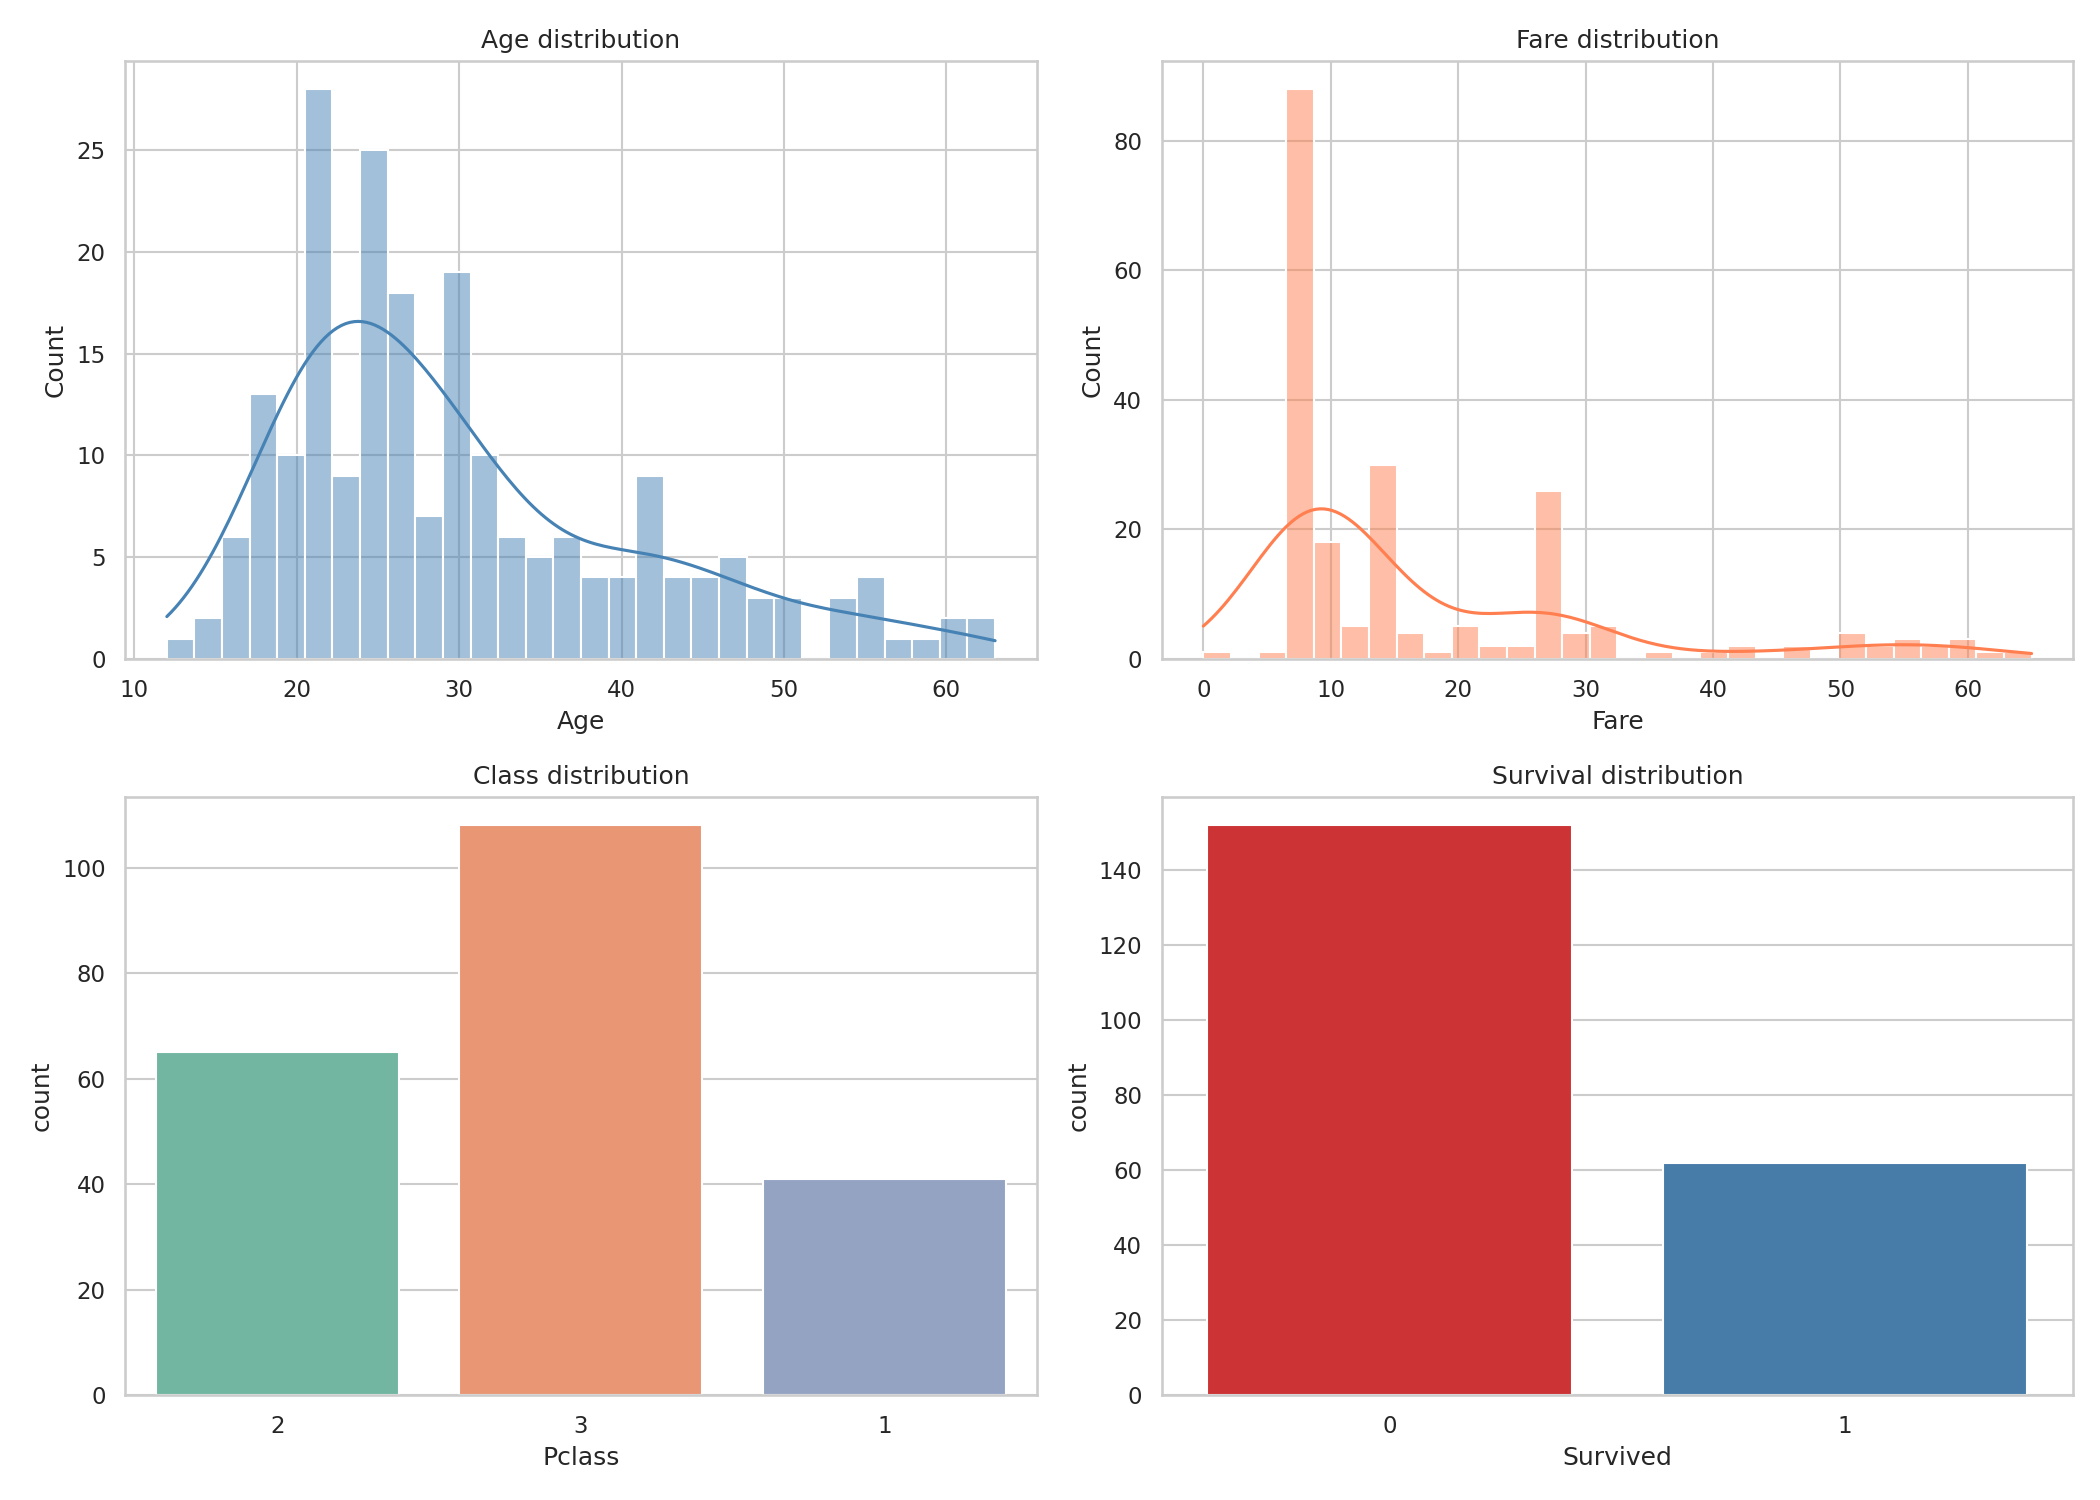
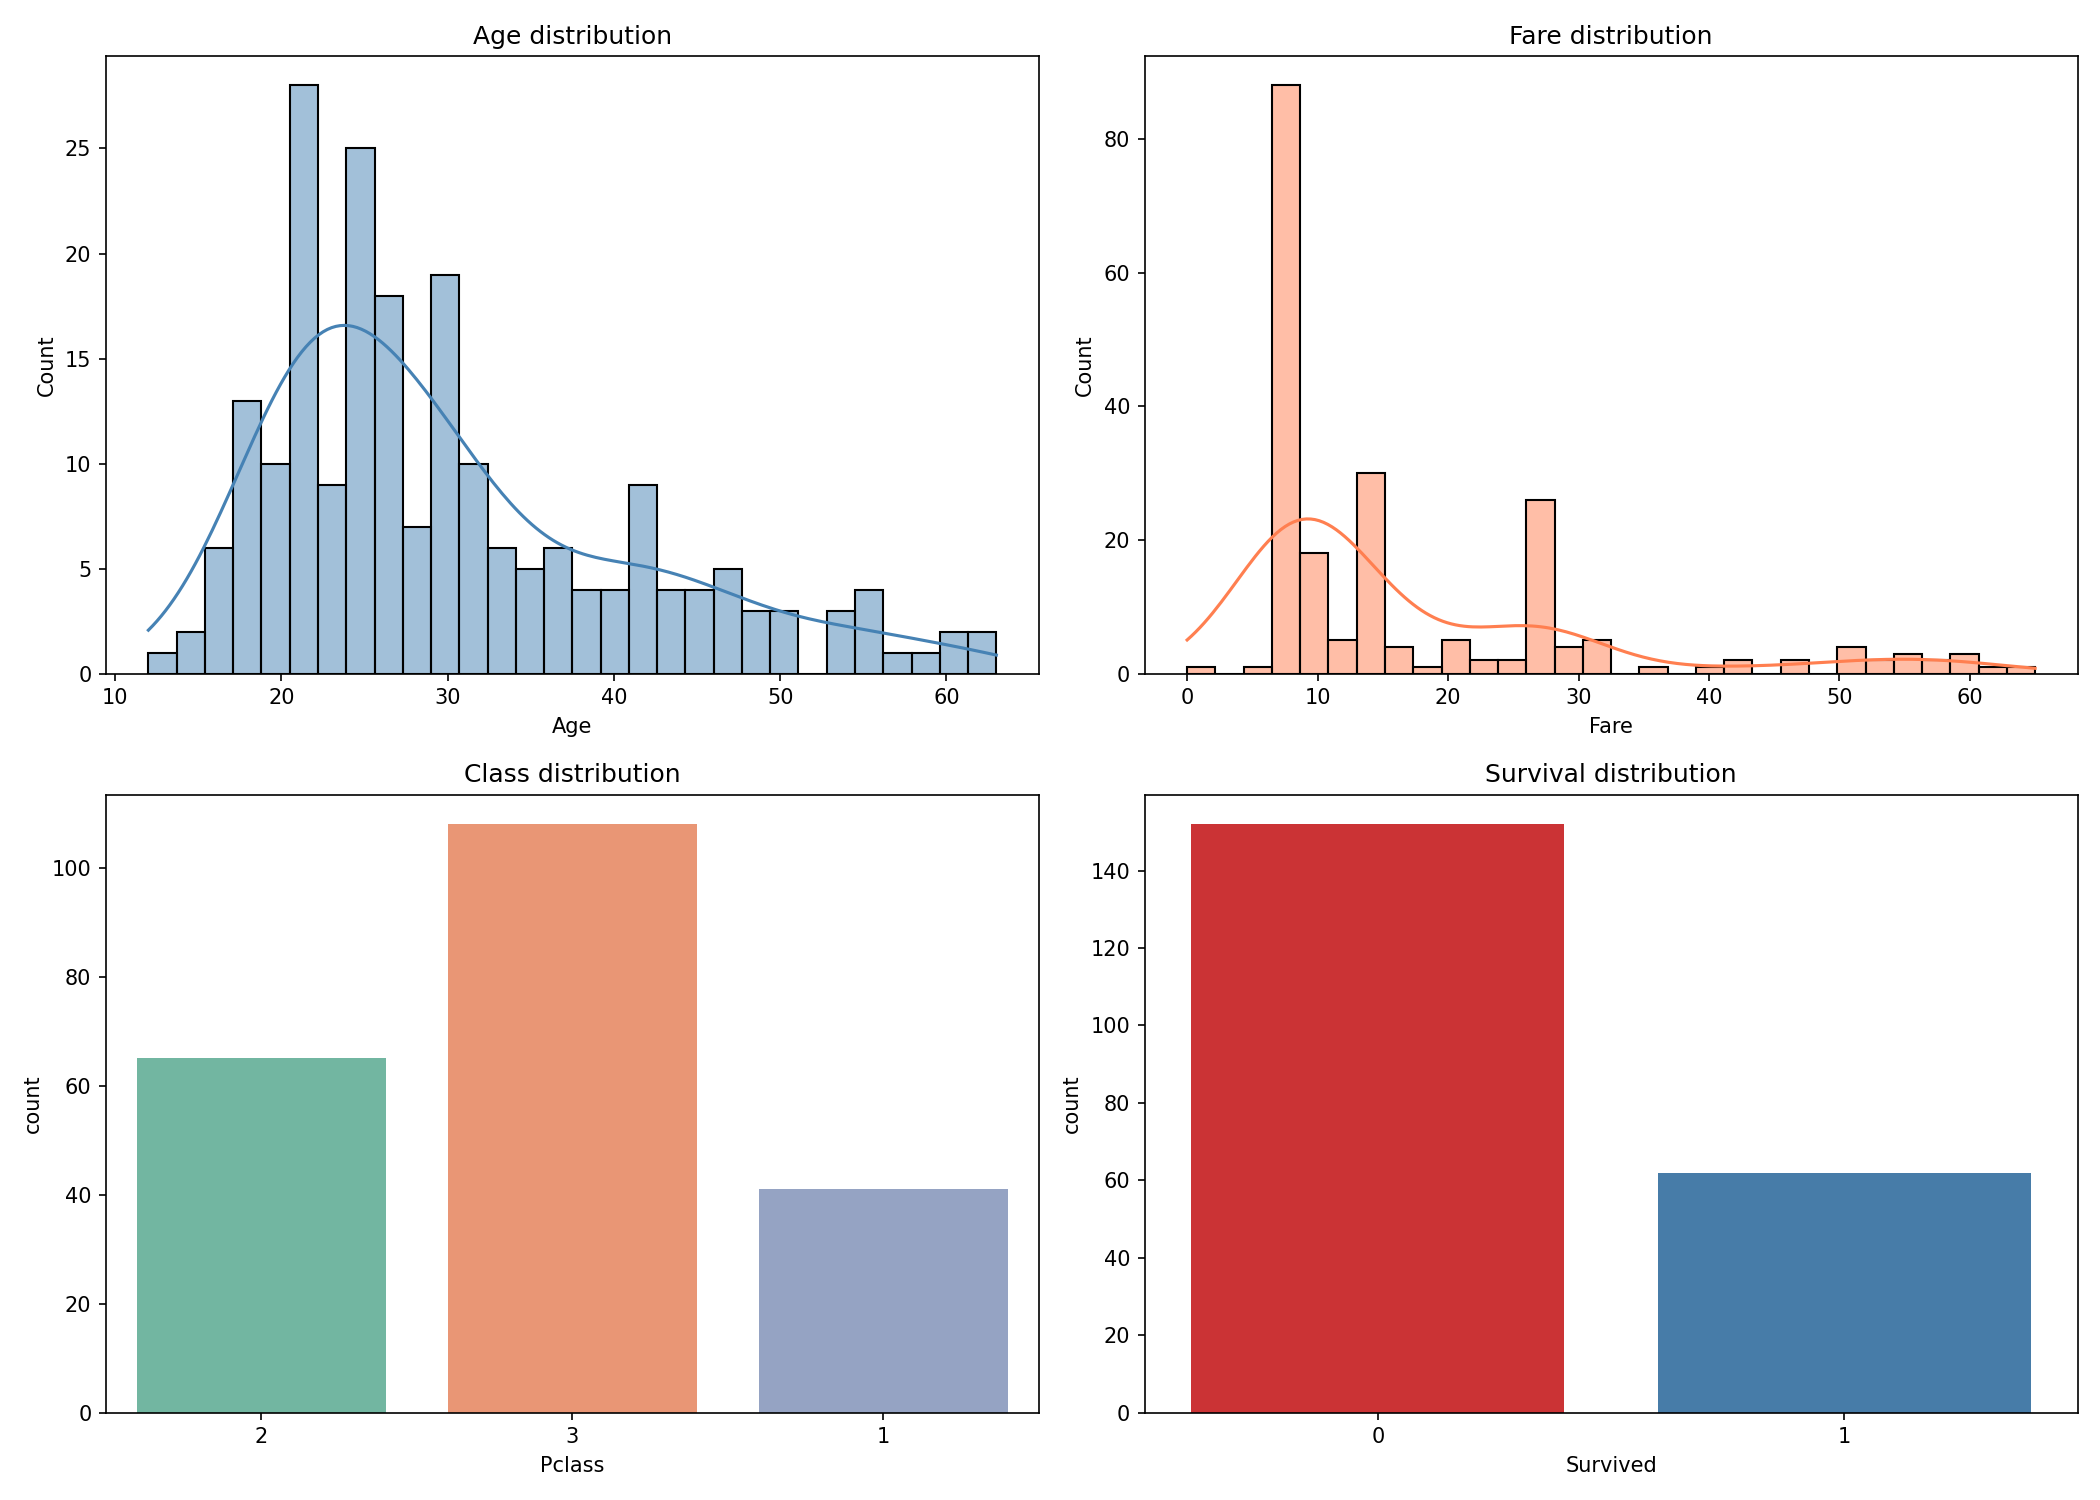
tp1 bis

diff --git a/DataScience/TP1/tp1_bis.py b/DataScience/TP1/tp1_bis.py
@@ -1,0 +1,226 @@
+import polars as pl
+import pandas as pd
+import matplotlib.pyplot as plt
+import seaborn as sns
+
+# Loading the dataset with polars
+df: pl.DataFrame = pl.read_csv("titanic.csv")
+
+# Show the 10 first rows
+print(df.head(10))
+
+# Print the stat of the dataframe
+print(df.describe())
+
+# Print the structure of the dataframe
+print(df.schema)
+
+# Count the missing values
+print(df.null_count())
+
+# Show the count of duplicates values
+print(f"Duplicates: {df.is_duplicated().sum()}")
+df = df.unique()
+
+# Type correction
+df = df.with_columns(
+    pl.col("Pclass").cast(pl.Utf8),
+    pl.col("Sex").cast(pl.Utf8),
+    pl.col("Embarked").cast(pl.Utf8),
+)
+
+# Outlier detection (IQR)
+# Define mumeric columns where I want to detect aberrant values
+num_cols: list[str] = ["Age", "Fare", "SibSp", "Parch"]
+
+# Calculate quantile and the IRQ
+Q1: dict[str, float] = {c: float(df[c].quantile(0.25)) for c in num_cols}
+Q3: dict[str, float] = {c: float(df[c].quantile(0.75)) for c in num_cols}
+IQR: dict[str, float] = {c: Q3[c] - Q1[c] for c in num_cols}
+
+# Create a boolean mask indicating outliers for each column
+outlier_mask: pl.DataFrame = df.select(
+    [
+        (pl.col(c) < (Q1[c] - 1.5 * IQR[c])) | (pl.col(c) > (Q3[c] + 1.5 * IQR[c]))
+        for c in num_cols
+    ]
+)
+
+# Calculate outliers by columns
+print(outlier_mask.sum())
+
+# Remove outliers with false values
+df = df.filter(~outlier_mask.select(pl.any_horizontal(pl.all())).to_series())
+
+# Skewness calculation for numeric columns
+skewness = df.select([pl.col(c).skew().alias(c) for c in num_cols])
+print(f"Skewness: {skewness}")
+
+# Visualization
+# Convert the polars dataframe into a pandas dataframe
+df_pd: pd.DataFrame = df.to_pandas()
+
+# Create a grid of 2x2
+fig, axes = plt.subplots(2, 2, figsize=(14, 10))
+
+# Histograme for the age
+sns.histplot(df_pd["Age"].dropna(), bins=30, kde=True, ax=axes[0, 0], color="steelblue")
+axes[0, 0].set_title("Age distribution")
+
+# Histograme for the fare
+sns.histplot(df_pd["Fare"].dropna(), bins=30, kde=True, ax=axes[0, 1], color="coral")
+axes[0, 1].set_title("Fare distribution")
+
+# Countplot for the Pclass (count people for each class)
+sns.countplot(
+    x="Pclass", data=df_pd, ax=axes[1, 0], hue="Pclass", palette="Set2", legend=False
+)
+axes[1, 0].set_title("Class distribution")
+
+# Countplot Survived (count people who survive)
+sns.countplot(
+    x="Survived",
+    data=df_pd,
+    ax=axes[1, 1],
+    hue="Survived",
+    palette="Set1",
+    legend=False,
+)
+axes[1, 1].set_title("Survival distribution")
+
+# Save the plot into a png file
+plt.tight_layout()
+plt.savefig("viz_01_distributions.png", dpi=150)
+plt.close()
+
+# Boxplot for compare age vs class
+fig, axes = plt.subplots(1, 3, figsize=(15, 5))
+sns.boxplot(
+    x="Pclass",
+    y="Age",
+    data=df_pd,
+    ax=axes[0],
+    hue="Pclass",
+    palette="Set2",
+    legend=False,
+)
+axes[0].set_title("Age by Class")
+
+# Boxplot for compare age vs survived
+sns.boxplot(
+    x="Survived",
+    y="Age",
+    data=df_pd,
+    ax=axes[1],
+    hue="Survived",
+    palette="Set1",
+    legend=False,
+)
+axes[1].set_title("Age by Survival")
+
+# Boxplot for compare age vs age
+sns.boxplot(
+    x="Sex", y="Age", data=df_pd, ax=axes[2], hue="Sex", palette="muted", legend=False
+)
+axes[2].set_title("Age by Sex")
+
+# Save the plot into a png file
+plt.tight_layout()
+plt.savefig("viz_02_boxplots.png", dpi=150)
+plt.close()
+
+# Correlation matrix to get a correlation bewteen all numerics values
+fig, ax = plt.subplots(figsize=(8, 6))
+corr_matrix: pd.DataFrame = df_pd[["Survived", "Age", "SibSp", "Parch", "Fare"]].corr()
+sns.heatmap(corr_matrix, annot=True, cmap="coolwarm", center=0, fmt=".2f", ax=ax)
+ax.set_title("Correlation Matrix")
+
+# Save the plot into a png file
+plt.tight_layout()
+plt.savefig("viz_03_correlation.png", dpi=150)
+plt.close()
+
+# Fare is positively correlated with survival → richer passengers survived more
+# Pclass is negatively correlated with survival → lower class = lower survival
+# SibSp and Parch have weak correlation with survival
+
+# Null handling, replace age and fare by the median due of the > skewnees
+df = df.with_columns(
+    pl.col("Age").fill_null(pl.col("Age").median()),
+    pl.col("Fare").fill_null(pl.col("Fare").median()),
+    # Replace the value by the first popular value
+    pl.col("Embarked").fill_null(pl.col("Embarked").mode().first()),
+)
+
+# Remove the coloums cuz the dataset isn't complete
+df = df.drop("Cabin")
+
+# Survival analysis
+print(f"Survival rate: {df['Survived'].mean():.2%}")
+print(df.group_by("Pclass").agg(pl.col("Survived").mean()))
+print(df.group_by("Sex").agg(pl.col("Survived").mean()))
+
+df = df.with_columns(
+    pl.col("Age")
+    .cut(
+        [12, 18, 30, 50, 80],
+        labels=["enfant", "ado", "jeune", "adulte", "senior", "80+"],
+    )
+    .alias("Age_group")
+)
+print(df.group_by("Age_group").agg(pl.col("Survived").mean()))
+
+
+# Analyse métier :
+# La plupart des passagers ont entre 20 et 35ans, il y a un petit groupe d'enfants de 10ans et de personnes agées.
+# La distribution de Fare est asymétrique à droite, la majorité des personnes ont payées moins de 15livres.
+# La plupart des passagers sont en 3ème classe.
+# Environ 65% des passagers sont morts
+# La moyenne par classe est de 42, 27 et 23 ans pour les classes 1,2 et 3.
+# L'age moyen des survivants est de 22ans.
+# Permis les passagers les hommes sont légèrement plus agés.
+
+# Pipeline processing
+from sklearn.compose import ColumnTransformer
+from sklearn.impute import SimpleImputer
+from sklearn.pipeline import Pipeline
+from sklearn.preprocessing import OneHotEncoder, StandardScaler
+
+raw_df = pd.read_csv("titanic.csv")
+
+# Define the X et Y variables
+X = raw_df[["Pclass", "Sex", "Age", "SibSp", "Parch", "Fare", "Embarked"]]
+y = raw_df["Survived"]
+
+# Define type colomuns
+numeric_features = ["Age", "Fare", "SibSp", "Parch", "Pclass"]
+categorical_features = ["Sex", "Embarked"]
+
+# Pipeline for the numerics values, replace null values by the median and put values a the same scale
+numeric_transformer = Pipeline(steps=[
+    ("imputer", SimpleImputer(strategy="median")),
+    ("scaler", StandardScaler())
+])
+
+# Pipeline for the categorical values, replace null values by the most common values
+categorical_transformer = Pipeline(steps=[
+    ("imputer", SimpleImputer(strategy="most_frequent")),
+    ("onehot", OneHotEncoder(handle_unknown="ignore"))
+])
+
+# Applu the correct transformations
+preprocessor = ColumnTransformer(
+    transformers=[
+        ("num", numeric_transformer, numeric_features),
+        ("cat", categorical_transformer, categorical_features)
+    ]
+)
+
+X_prepared = preprocessor.fit_transform(X)
+
+# Create a dataframe to see the result
+prepared_feature_names = preprocessor.get_feature_names_out()
+X_prepared_df = pd.DataFrame(X_prepared, columns=prepared_feature_names)
+
+# Show the first 5 lines
+print(X_prepared_df.head())

diff --git a/DataScience/TP2/main.py b/DataScience/TP2/main.py
@@ -236,5 +236,3 @@ df = df.with_columns(
 
 # Le dataset est déséquilibré : 78% non-défaut vs 22% défaut
 # Le modèle risque d'être biaisé vers la classe majoritaire, il faut compenser avec du SMOTE ou class_weight
-
-
